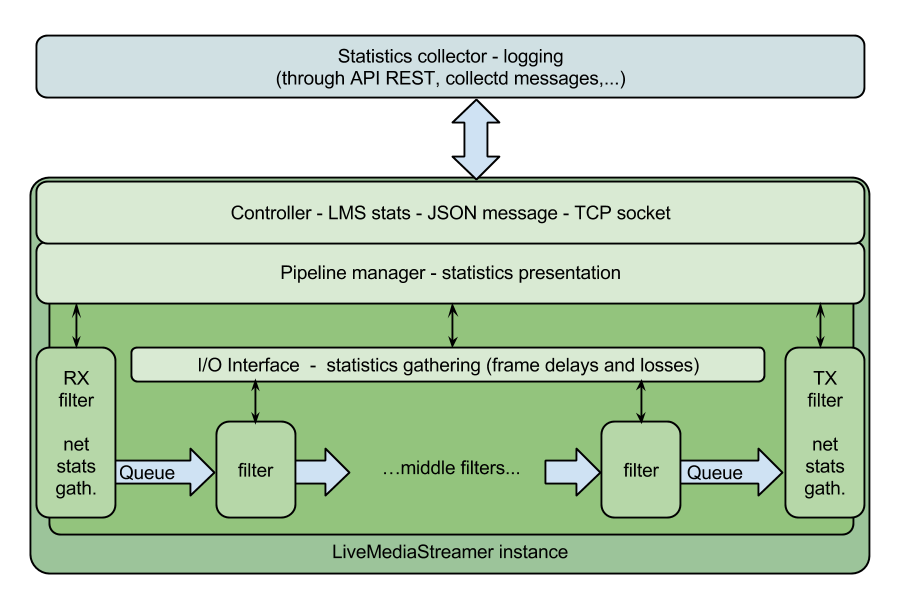
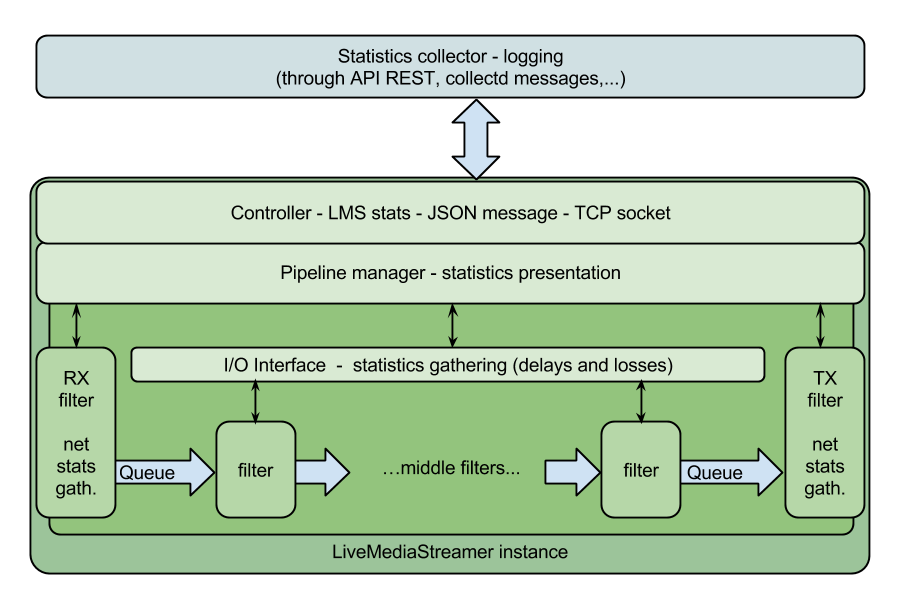
monit ch

Changed region(s): [[0.2175, 0.605, 0.7769, 0.6353]]

diff --git a/chapters/problemStatementAndProposal.tex b/chapters/problemStatementAndProposal.tex
@@ -190,8 +190,8 @@ First of all, let's showcase main topics application's (i.e.: LiveMediaStreamer 
 		\end{itemize}
 		\item For media statistics
 		\begin{itemize}
-			\item Frame losses (to measure how many frames are lost at each filter)
-			\item Pipeline delay (to measure the overall time a frame is processed inside pipeline). It could be said as "Frame processing time" too. 
+			\item Pipeline losses 
+			\item Pipeline delay  
 		\end{itemize}
 	\end{itemize}
 	\item To compile the metrics in an efficient manner in order to let them be gathered for Collectd or any other application.
@@ -201,13 +201,13 @@ Current LiveMediaStreamer framework's version does not implement any metrics gat
 
 Regarding network usage statistics, current LiveMediaStreamer's version does not support any internal metrics gathering at network modules (i.e.: receiver and transmitter) where the Live555 library is implemented. However, Live555 library lend to quickly implement network statistics measurements (i.e.: bandwidth, losses, jitter, delay). 
 
-Thanks to Live555 examples (i.e.: the testProgs folder inside the source code library path) it becomes easy to understand how to gather network statistics at input side. But, regarding output network statistics, it is not so obvious which is the optimal solution. This fact is mainly due to having two options which imply to implement the metrics gathering by doing some methods' re-implementation of the RTP or the RTCP main classes, but this specific problem statement will be treated at chapter 5 ANCHOR CHAPTER 5.
+Thanks to Live555 examples (i.e.: the testProgs folder inside the source code library path) it becomes easy to understand how to gather network statistics at input side. But, regarding output network statistics, it is not so obvious which is the optimal solution. This fact is mainly due to having two options which imply to implement the metrics gathering by doing some methods' re-implementation of the RTP or the RTCP main classes, but this specific problem statement will be treated at next chapter \ref{D:application}.
 
-Regarding media statistics, current LiveMediaStreamers' version of the framework does not implement any metrics gathering. So, in order to minimize computational cost of such measurements what is proposed to implement is shown next:
+Regarding media statistics, current LiveMediaStreamers' version of the framework does not implement any metrics gathering. So, in order to minimize computational cost of such measurements what is proposed to implement is:
 
 \begin{itemize}
-\item To implement specific method to measure processing delays.
-\item To implement specific method to measure frame losses.
+\item A specific method to measure processing delays.
+\item A specific method to measure processing losses.
 \end{itemize}
 
 Then, a main issue have to be taken into account regarding how to implement the metrics presentations in order to let them be logged for external applications. This is regarding current middleware API, which is not at all an API but a web GUI API for an specific scenario (i.e.: AVMixer scenario, as said in state of the art's chapter \ref{SOA:LMSframework}), which means that it is required to implement a more generic middleware API to let external applications to log the LMS internal metrics as API (--REFERENCE--) definition reclaims. 
@@ -222,7 +222,7 @@ Therefore, the proposal for this issue is to develop a RESTfull API in order to 
 \end{center}
 \end{figure}
 
-Figure \ref{F:appArch} showcases how previous statements are proposed to be implemented. As it can be seen in APPENDIX \ref{ANX:lmsarchfull}, each filter can have one or more readers and writers (both are inheritors of the IOInterface class) and concretely at the reader level there is the optimal point to detect frame losses and processing delays. This means measuring from the last writer (i.e.: a queue and the filter itself) when flushing frames (when the frame is supposed to be ready). Therefore, this fact implies having the chance to measure the delays at time-stamp level and the lost frames at sequence number level. But this will be developed in chapter \ref{D:application}.
+Figure \ref{F:appArch} showcases how previous statements are proposed to be implemented. As it can be seen in APPENDIX \ref{ANX:lmsarchfull}, each filter can have one or more readers and writers (both are inheritors of the IOInterface class). But, this issue will be developed in chapter \ref{D:application}.
 
 On the other hand, the Pipelinemanager class instance is the responsible class to compile the metrics filter by filter when they are requested by the Controller class instance. 
 
@@ -251,7 +251,7 @@ For example, a possible and specific architecture configuration could be a trans
 \end{center}
 \end{figure}
 
-Figure \ref{F:exampleArch} is a simple example of a transcoding servicde behind a web application. This use case example takes into account an user, which configures and manages the LiveMediaStreamer's scenario configured for a transcoding service (e.g.: starting with a HTML input form for incoming inputs, transcoding parameters and RTSP server configuration). Concretely, at architecture level, there is a container with an LMS daemon running, another one with the REST API that receives queries from the HTTP server from another container, which is serving the web application to the end user, which is using the application through a web browser. Then, each container has a collectd client that parses the logs of interest and it sends the metrics to the Graphite service running. Therefore, at the web application the user could be able to see specific graphics (e.g.: CPU usage, lost frames, bandwidth usage, \ldots) from the graphite server (in another container) in order to monitor the overall performance and actuate if required. Finally, to point out that this scenario could be splitted into different O.S.. 
+Figure \ref{F:exampleArch} is a simple example of a transcoding servicde behind a web application. This use case example takes into account an user, which configures and manages the LiveMediaStreamer's scenario configured for a transcoding service (e.g.: starting with a HTML input form for incoming inputs, transcoding parameters and RTSP server configuration). Concretely, at architecture level, there is a container with an LMS daemon running, another one with the REST API that receives queries from the HTTP server from another container, which is serving the web application to the end user, which is using the application through a web browser. Then, each container has a collectd client that parses the logs of interest and it sends the metrics to the Graphite service running. Therefore, at the web application the user could be able to see specific graphics (e.g.: CPU usage, data losses, bandwidth usage, \ldots) from the graphite server (in another container) in order to monitor the overall performance and actuate if required. Finally, to point out that this scenario could be splitted into different O.S.. 
 
 Finally, to point out that what will be deployed in order to demonstrate the platform feasibility is an specific but as generic as possible scenario. However, this topic will be treated in chapter \ref{H:platformDeploymentAndDemonstrations}.
 

diff --git a/chapters/application.tex b/chapters/application.tex
@@ -346,11 +346,11 @@ Following metrics are intended to be exposed as the internal metrics. It's impor
 
 To point out that in figure \ref{F:lmsps} the arrows are the queues which interconnect each filter's writer with another filter's reader. Writers and readers are subclasses of the IOInterface class.
 
-\subsection{Frame delay metrics}
+\subsection{Delay}
 
-First of all, to emphasize that this metric is related to the time which a frame takes to be processed from an origin point to an end point by an unique given path, and this is measured thanks to a given and required time: the frame's timestamps. 
+First of all, to emphasize that this metric is related to the time which data (i.e.: a video frame, an audio sample,\ldots) takes to be processed from an origin point to an end point by an unique given path, and this is measured thanks to a given and required time: the data's timestamps. Data inside the LMS source code is known as a "frame", which can be an audio frame (i.e.: sample), a H264 NAL unit, a raw frame, \ldots 
 
-The delay time isn't considered to be measured per each filter in order to not affect the overall performance but each measured time involves an origin filter which resets the timestamps (i.e.: this is done by default by the Live555 library). These origins are the Head (i.e.: receiver filter) and OneToMany (i.e.: audio and video mixer filters) filters. These filters reset the frames' timestamps in order to reach and control an internal synchronization, and this is due to the fact that these filters have many outputs (i.e.: writers) or many inputs (i.e.: readers) and they require synchronizing their outputs in order to assure one point of time control inside the LMS framework, whatever the scenario configured.
+The delay time isn't considered to be measured per each filter in order to not affect the overall performance but each measured time involves an origin filter which resets the timestamps. These origins are the Head (i.e.: receiver filter) and OneToMany (i.e.: audio and video mixer filters) filters. These filters reset the frames' timestamps in order to reach and control an internal synchronization, and this is due to the fact that these filters have many outputs (i.e.: writers) or many inputs (i.e.: readers) and they require synchronizing their outputs in order to assure one point of time control inside the LMS framework, whatever the scenario configured.
 
 So, in order to measure the delay it is important to note that a pipeline isn't composed by an unique path (see APPENDIX \ref{ANX:lmsarchfull} for clarifications) but multiple paths. This fact implies that it's not possible to measure an unique overall delay time per frame which goes over the pipeline (indeed there is a special case, and this is when there is a unique path that defines the pipeline itself, an unique path), or at least it's not suitable for performance issues, but it can be done for external applications which know the scenario configuration and gathers such metrics. Therefore, this is solved by splitting the measurements by paths. And this is an optimal measurement: the delay is given by the differential time measured by the last reader of the path (i.e.: the reader of the destination filter).
 
@@ -388,51 +388,13 @@ void Reader::measureDelay()
 
 So, what is done is to measure the average delay of a frame by a given window time (default is configured to 1 second). And this means measuring from the origin time, which, as said, is set by the origin filters (i.e.: the beginning of a path, starting from a writer), to each reader of the path (i.e.: each filter). But, the delay time presented is from the beginning (i.e.: initial writer of the path) until the last reader. See figure \ref{F:lmsps} where different path's examples are illustrated.
 
-\subsection{Frame losses metrics}
+\subsection{Losses}
 
-This metric is following the same criteria as the previous one. This means that this is solved by measuring at the same point, so it's done when flushing frames at the reader side (as introduced in section \ref{B:appLayerCH2}. In order to reach minimal computational cost, the method implemented is as shown next:
+This metric is following a similar criteria as the previous one. This is solved by measuring at the same point, but it's done when flushing frames at the reader side (as introduced in section \ref{B:appLayerCH2}). In order to reach minimal computational cost, the measurement is just a counter of the overall data losses when calling the flush methods. What is done is a method encapsulation by defining a parent method that is just incrementing its reader counter and then it calls the specific flush implementation per each data/frame type.
 
-\begin{quote}
-\begin{verbatim}
-void Reader::measureLosses()
-{
-    if(frame->getSequenceNumber() > (lastSeqNum + 1)){
-        lostFrames += (frame->getSequenceNumber() - (lastSeqNum + 1));
-    }
-    lastSeqNum = frame->getSequenceNumber();
-}
-\end{verbatim}
-\end{quote} 
+Then, in order to properly present it to external applications it is required to be presented at a path level as done for the delay metrics. So, in this case it is only required to sum up the overall losses of the path's readers.
 
-Thanks to the sequence number parameter that each frame has it is quite easy to get the frame losses ratio, as exposed by previous method's implemented.
+To point out, that this metric is not referenced to a total data processed or at any time point, but specific problem detections are achieved thanks to measuring its continuity. This means that if this value is incrementing gradually then the system is not working properly. Such detections might imply fast increments on its continuity (differential increase). 
 
-At the end, the metric presented in this case is the total frames lost and the total frames by a given path, per each filter. So, what is presented is the frame loss ratio per path.
 
-Finally, as said, Pipeline metrics are measured when flushing frames, this means when a reader is able to remove a frame from its belonging queue. Next piece of code from the Reader class is showing how it is finally done for both frame measurements:
-
-\begin{quote}
-\begin{verbatim}
-int Reader::removeFrame(int fId)
-{
-    std::lock_guard<std::mutex> guard(lck);
-
-    if (pending != 0 && requests.count(fId) > 0 && requests[fId]){
-        pending--;
-        requests[fId] = false;
-    }
-    
-    if (pending == 0){
-
-        measureDelay();
-        measureLosses();
-
-        frame = NULL;
-        requests.clear();
-        return queue->removeFrame();
-    } else {
-        return -1;
-    }
-}
-\end{verbatim}
-\end{quote}
-
+Finally, as a section corollary, Pipeline metrics are measured when flushing frames (discarding) or when a reader is able to remove a frame from its belonging queue. 

diff --git a/chapters/monitoringLayer.tex b/chapters/monitoringLayer.tex
@@ -6,7 +6,19 @@ This chapter aims to showcase how the selected monitoring tools can fit in the a
 
 Moreover, to point out that such tools are helpful to demonstrate that LiveMediaStreamer framework could be deployed as the core of a real-time media production platform (see chapter \ref{H:platformDeploymentAndDemonstrations}).
 
-So, before start developing this chapter let's remark that the fact of creating small and reusable containers is the main goal of this chapter and, of course, the goal of this platform architecture to prototype. And, thanks to the selected monitoring tools, which are lightweight and ease configuration flexibility, this issue might be properly solved.
+So, to remark that the fact of creating small and reusable containers is the main goal of this chapter and, of course, the goal of this platform architecture to prototype. And, thanks to the selected monitoring tools, which are lightweight and ease configuration flexibility, this issue might be properly solved.
+
+Then, a proposal of the monitoring architecture in a more detailed description (regarding figure \ref{F:MLAP}) is shown in figure \ref{F:maex}.
+
+\begin{figure}[htb]
+\begin{center}
+\includegraphics[width=0.9\textwidth]{./images/monitArchProp.png}
+\caption{Detailed monitoring architecture}
+\label{F:maex}
+\end{center}
+\end{figure}
+
+Figure \ref{F:maex} showcases the relationship between different containers and the whole Collectd+Graphite deployment. Following sections are explaining it:
 
 \section{Monitoring containers}
 
@@ -14,17 +26,55 @@ This section is based on how Collectd can be configured and deployed in order to
 
 \subsection{From O.S. point of view}
 
-The fact of using Collectd means a wide community behind that probably have already created the plugin required. And this is the case. In order to monitor each of the containers that the host O.S. might be running the plugin 
+The fact of using Collectd means a wide community behind, which probably have already developed required functionalities (i.e.: plugins). And this is the case: in order to monitor each of the containers that a host O.S. might have it can be solved by configuring already existing plugins for Collectd from Docker community. 
 
-collectd special plguin for monitoring dockers
-https://github.com/lebauce/docker-collectd-plugin
+The selected plugin is using the stats API introduced since Docker 1.5 version. And, concretely, the reported container's stats are:
+ 
+\begin{itemize}
+\item Network bandwidth
+\item Memory usage
+\item CPU usage
+\item Block IO
+\end{itemize}
+
+The pluguin is called "docker-collectd-pluguin" and can be found in \href{https://github.com/lebauce/docker-collectd-plugin}{GitHub} (--REFERENCE--).
+
+Therefore, the O.S. system requires having a basic collectd daemon running and to be configured in order to send gathered metrics to a centralized collectd server (as proposed in figure \ref{F:maex}).
+
+So, from O.S. point of view, next example of this specific Collectd's plugins configuration showcases how to load and configure such plugins:
+
+\begin{verbatim}
+
+TypesDB "/usr/share/collectd/docker-collectd-plugin/dockerplugin.db"
+LoadPlugin python
+
+<Plugin python>
+  ModulePath "/usr/share/collectd/docker-collectd-plugin"
+  Import "dockerplugin"
+
+  <Module dockerplugin>
+    BaseURL "unix://var/run/docker.sock"
+    Timeout 3
+  </Module>
+</Plugin>
+
+LoadPlugin network
+<Plugin network>
+  Server "graphite-host-address" "graphite-host-port"
+  ReportStats true
+</Plugin>
+
+\end{verbatim}
+
+Previous Collectd configuration file sets the python (i.e.: docker-collectd-plugin) plugin as an input from the O.S. Docker API daemon and the network plugin as an output to the Collectd server.
 
 \subsection{From container point of view}
 
-containers previs amb collectd dins enviant a graphite
+From a container point of view and by following the premise to build containers as reusable as possible what is proposed to implement is a container that has the goal to gather the logged stats from an LMS container. This, as shown in figure \ref{F:maex}, implies sharing a Docker volume (as introduced in previous chapter \ref{D:virtualization}) from LMS container to the Collectd client which is using the tail plugin as an input. Moreover, in order to send specific logged metrics to the Collectd server container it is also using the network plugin as done in previous Collectd client configuration.
 
-o containers amb graphite que llegeixen volumes the logs de lms i tal...
+
+
 
 \section{Showcasing monitoring}
 
-container amb graphite
+container amb graphite + collectd server
